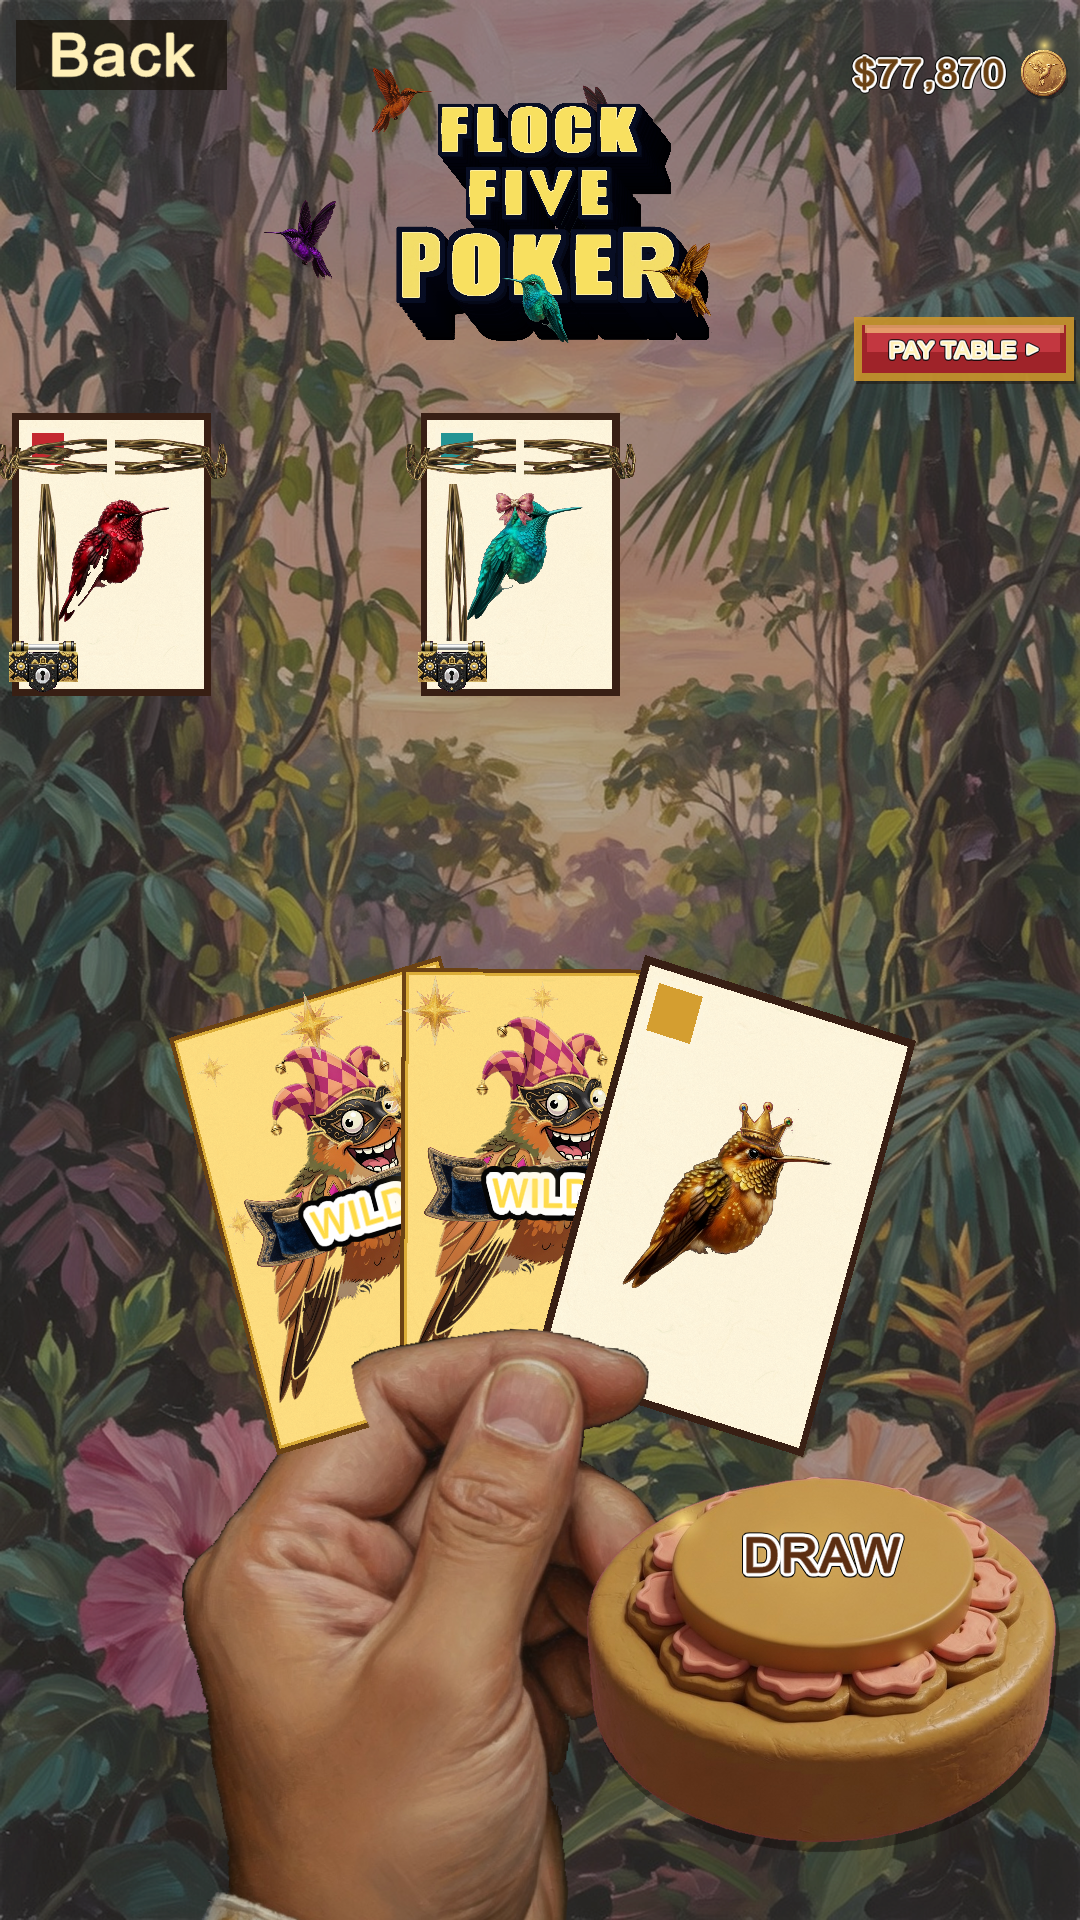
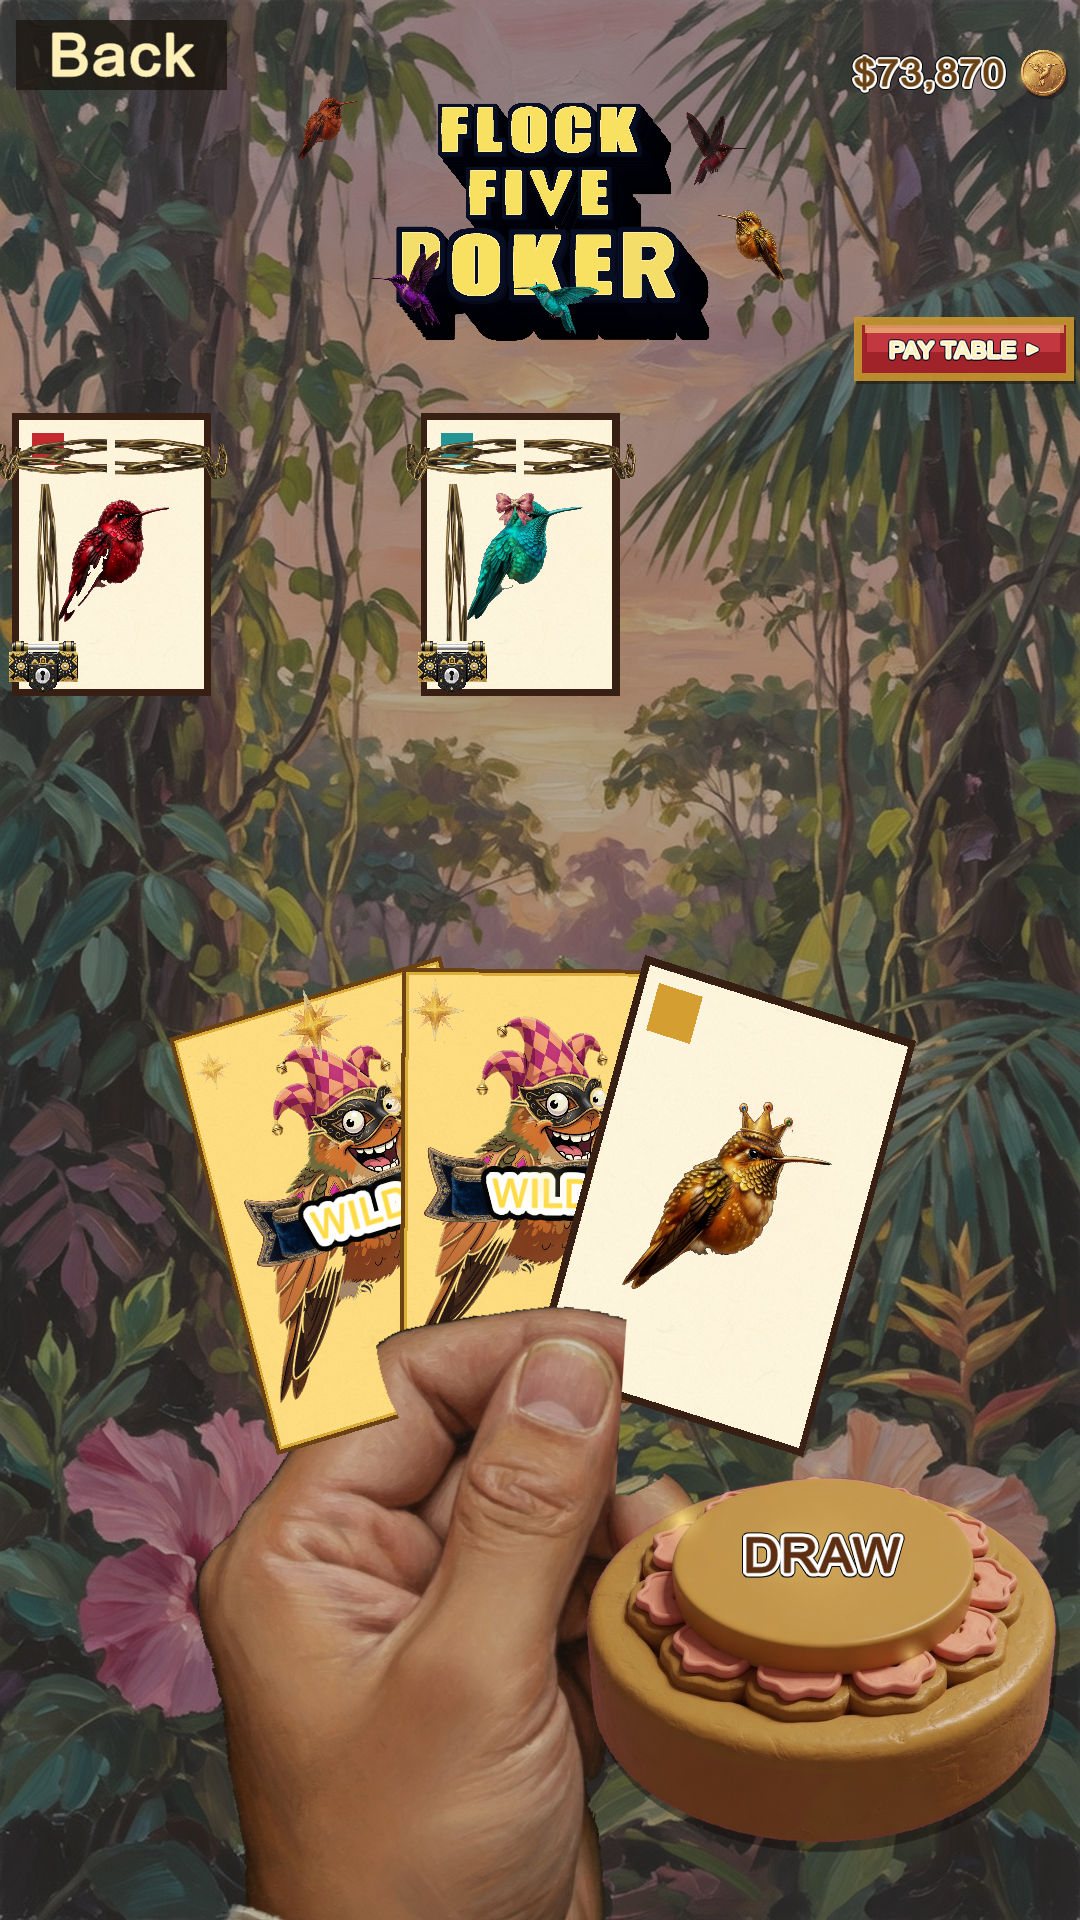
Poker: pass 8 — front layer is the thumb only
Index fingertip was in fx_hand_fan_front, so it sat on the gold
card. Mask front to the thumb pad/nail; drop that index from the
back sprite too so it cannot peek. Draw order unchanged (thumb
last). Pinch UV follows the thumb-only centroid.

Playrun DONE 3/3, mid=0.

diff --git a/Assets/_Project/Scripts/App/FlockFiveApp.cs b/Assets/_Project/Scripts/App/FlockFiveApp.cs
@@ -1011,7 +1011,7 @@ namespace FlockFive
         {
             System.IO.Directory.CreateDirectory(dir);
             SpriteCatalog.DropPokerArt();
-            Debug.Log("Flock Five: ShotPokerFaces start " + dir + " pass7-physical-thumb");
+            Debug.Log("Flock Five: ShotPokerFaces start " + dir + " pass8-thumb-only");
             _home = HomeFace.Poker;
             _splash = true;
             _pokerPayOpen = false;
@@ -4897,8 +4897,8 @@ namespace FlockFive
         const float PokerFanScale = 1.42f;
         const float PokerFanSpan = 0.46f;
         // Physical thumb pad/nail at the bottom-fan pinch (front layer = thumb only).
-        const float PokerFanPinchU = 0.51f;
-        const float PokerFanPinchV = 0.26f;
+        const float PokerFanPinchU = 0.481f;
+        const float PokerFanPinchV = 0.275f;
         const float PokerFanHandAspect = 0.80f;
 
         static float PokerAliveBreathe() => Mathf.Sin(Time.unscaledTime * 1.18f);
